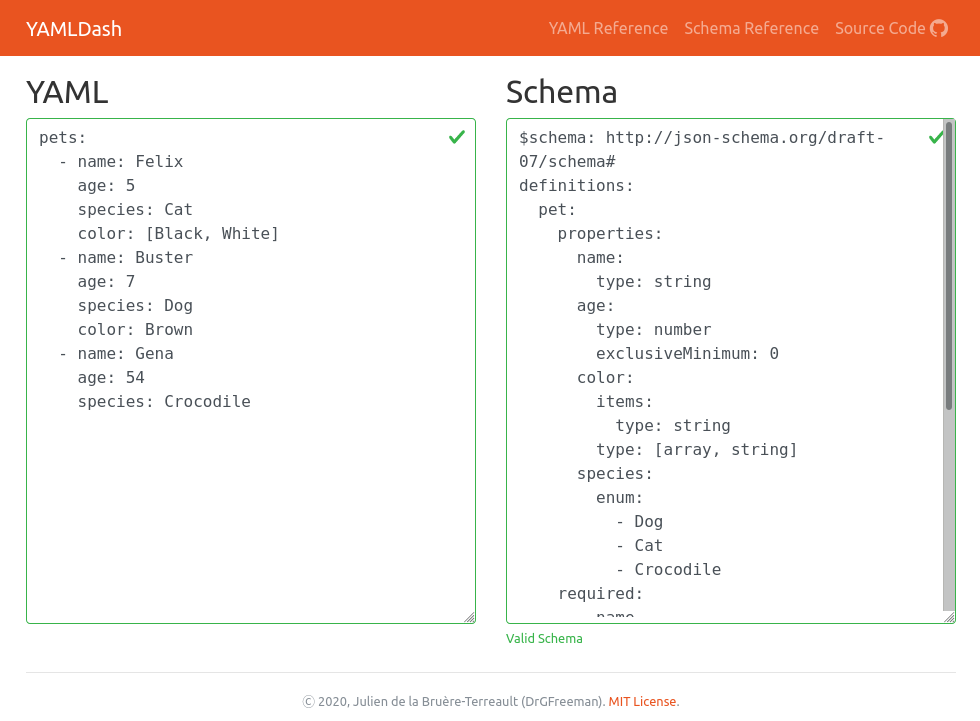
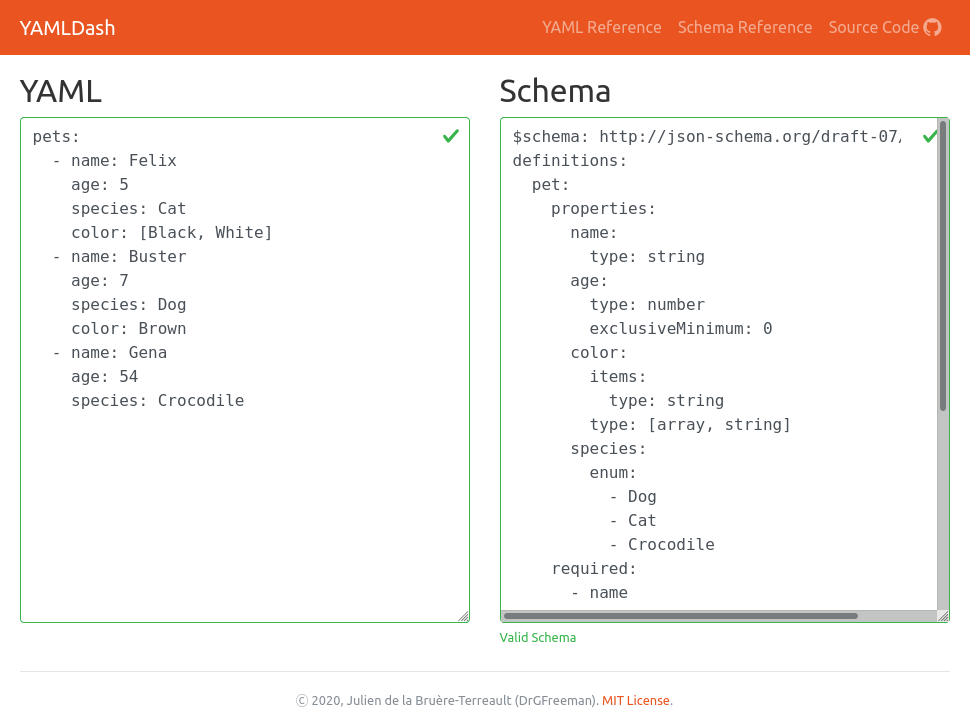
Fix wrapping in textareas

diff --git a/yamldash/layout.py b/yamldash/layout.py
@@ -68,7 +68,7 @@ yaml_col = dbc.Col(
             value=default_yaml,
             rows=20,
             spellCheck=False,
-            wrap=False,
+            wrap="off",
         ),
         html.Div(
             "",
@@ -99,7 +99,7 @@ schema_col = dbc.Col(
             value=default_schema,
             rows=20,
             spellCheck=False,
-            wrap=False,
+            wrap="off",
         ),
         dcc.Store(
             id="schema",
